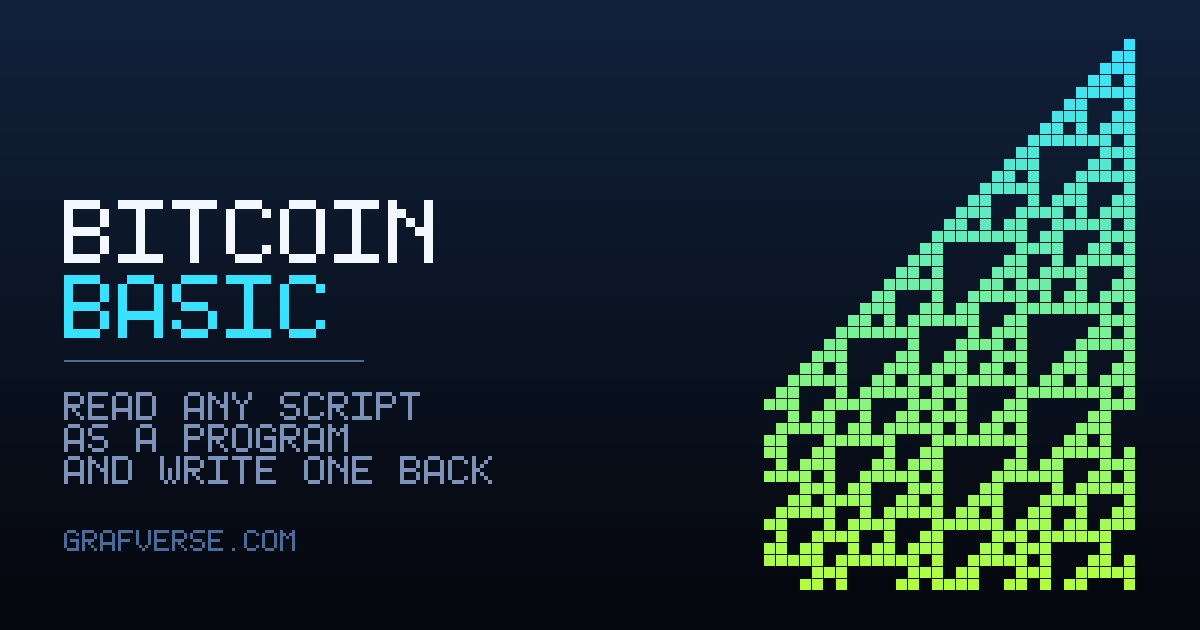
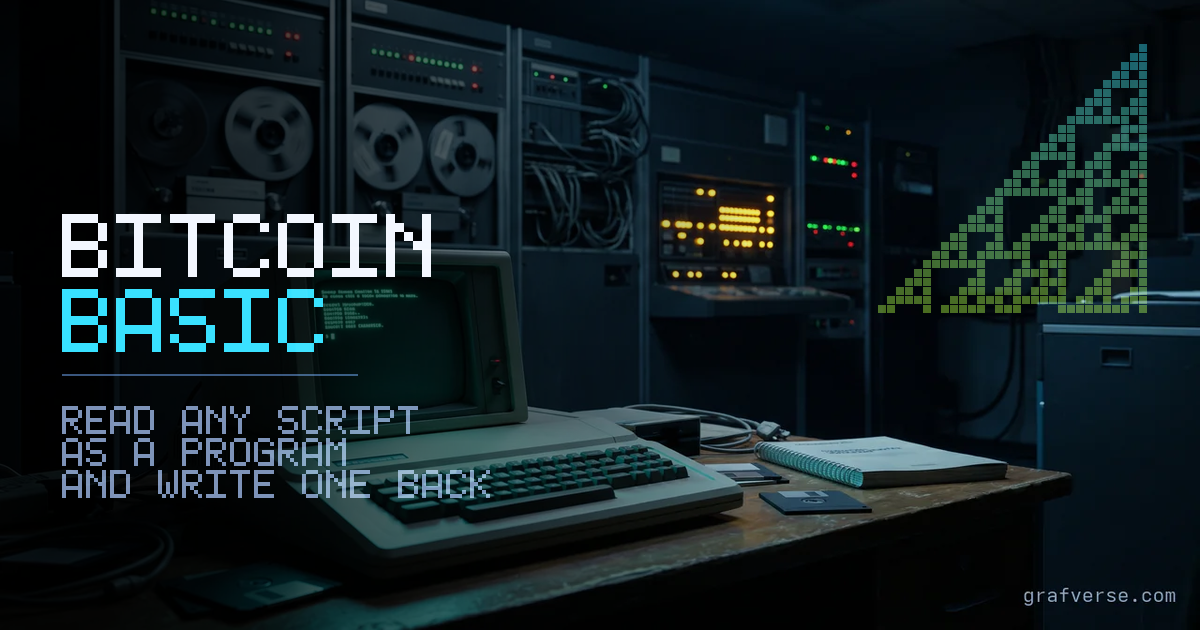
The social card gets both — the photograph, with Rule 110 projected into it
The card was the triangles alone, which is distinctive but says nothing to
somebody meeting the page in a timeline. It is now sun-dive's photograph with the
title over it and the automaton projected into the dark of the machine room, so
the link preview carries the thesis, the name and the pattern at once.

  the photograph      cropped and resized by magick, handed back as RAW RGB
  everything after    placed here, so the scrim, the projection and the text all
                      obey one set of rules
  the triangles       still from the same reference the covenant is tested
                      against, so that part cannot drift from what the page does

★ SCREEN, NOT PASTE. The projection and the text only ever ADD light, exactly as a
projector does — over the dark cabinets the triangles glow, and over anything
already bright they do nothing. It means the pattern can be laid across the frame
without punching a hole in the photograph.

⚠ Two things caught by looking at the render rather than by reasoning about it:

The card said "grafverse.com" TWICE — once drawn, once in the photograph's own
corner tag. Printing it twice reads as a mistake rather than as branding, so the
drawn one is gone.

And the crop was centred, which clipped the underside of that corner tag. Taking
all forty-eight rows off the CEILING instead loses the least interesting part of
the frame and leaves the tag whole.

og:image bumped to v=2 and its alt text now describes the photograph rather than
[…]

diff --git a/basic.html b/basic.html
@@ -16,14 +16,14 @@
 <meta property="og:title" content="Bitcoin BASIC — read any Bitcoin Script as a program">
 <meta property="og:description" content="Script is what BASIC's expression evaluator looks like with the front end deleted. Paste a covenant, read it as a listing. Write BASIC, get Script.">
 <meta property="og:url" content="https://grafverse.com/basic.html">
-<meta property="og:image" content="https://grafverse.com/basic-og.png?v=1">
+<meta property="og:image" content="https://grafverse.com/basic-og.png?v=2">
 <meta property="og:image:width" content="1200">
 <meta property="og:image:height" content="630">
-<meta property="og:image:alt" content="Bitcoin BASIC — the nested triangles of Rule 110, drawn by the automaton itself.">
+<meta property="og:image:alt" content="A 1980s home microcomputer in front of a 1960s mainframe, with the nested triangles of Rule 110 projected into the dark of the room. Titled Bitcoin BASIC — read any Script as a program and write one back.">
 <meta name="twitter:card" content="summary_large_image">
 <meta name="twitter:title" content="Bitcoin BASIC — read any Bitcoin Script as a program">
 <meta name="twitter:description" content="A two-way workbench: Script → BASIC, and BASIC → Script. It works on a stranger's covenant, not just one this compiler made.">
-<meta name="twitter:image" content="https://grafverse.com/basic-og.png?v=1">
+<meta name="twitter:image" content="https://grafverse.com/basic-og.png?v=2">
 <script type="application/ld+json">
 {
   "@context": "https://schema.org",
@@ -34,7 +34,7 @@
   "description": "A two-way workbench between Bitcoin Script and BASIC. Reads a locking script as a numbered BASIC listing by symbolic execution, and compiles BASIC — including DIM state layouts and FOR…NEXT unrolled at compile time — into Script.",
   "author": { "@type": "Person", "name": "sun-dive" },
   "url": "https://grafverse.com/basic.html",
-  "image": "https://grafverse.com/basic-og.png?v=1",
+  "image": "https://grafverse.com/basic-og.png?v=2",
   "inLanguage": "en",
   "offers": { "@type": "Offer", "price": "0", "priceCurrency": "USD" },
   "about": [
